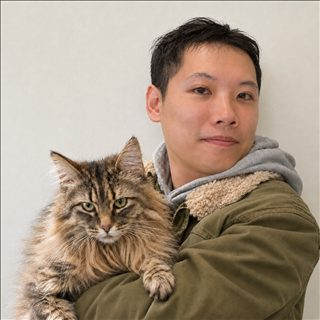
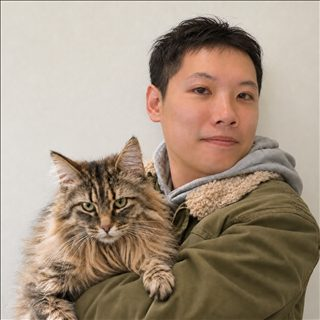
Refine the portrait hairline and volume

Changed region(s): [[0.4375, 0.0312, 0.8438, 0.2812]]

diff --git a/index.html b/index.html
@@ -14,7 +14,7 @@
     <link rel="alternate" hreflang="en" href="https://stancsz.github.io/">
     <link rel="alternate" hreflang="zh-Hans" href="https://stancsz.github.io/?lang=zh">
     <link rel="alternate" hreflang="x-default" href="https://stancsz.github.io/">
-    <link rel="icon" href="/assets/stan-cat-favicon.png?v=2" type="image/png" sizes="64x64">
+    <link rel="icon" href="/assets/stan-cat-favicon.png?v=3" type="image/png" sizes="64x64">
     <link rel="stylesheet" href="/styles.css?v=20261124">
     <title>Stan Chen — AI systems &amp; developer tools</title>
   </head>
@@ -46,7 +46,7 @@
           <h1 id="intro-title"><span data-i18n="introLead">I build tools for</span> <span data-i18n="introLeadEnd">coding agents.</span></h1>
         </div>
         <div class="portrait-frame">
-          <img class="hero-portrait" src="/assets/stan-cat-portrait.jpg?v=2" alt="Stan Chen holding a cat" data-i18n-alt="portraitAlt" width="320" height="320" fetchpriority="high">
+          <img class="hero-portrait" src="/assets/stan-cat-portrait.jpg?v=3" alt="Stan Chen holding a cat" data-i18n-alt="portraitAlt" width="320" height="320" fetchpriority="high">
         </div>
         <div class="intro-details">
           <p class="intro-copy" data-i18n="introCopy">Recent projects include a second opinion for coding agents, a way to find context in long histories, and a local memory graph.</p>
